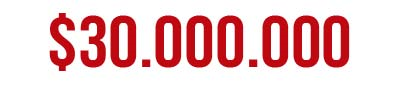
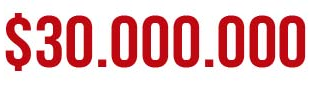
##76098## : Sorteo Extraordinario - Pruebas - Minuta del 16/12

diff --git a/sorteo/escribano/escribano.php b/sorteo/escribano/escribano.php
@@ -31,6 +31,17 @@ $fecha_sorteo = $row_sorteo->FECHA_SORTEO;
     <link href="escribano_estilo.php" rel="stylesheet" type="text/css" />
     <script type="text/javascript" src="../../librerias/jquery/jquery-1.10.1.js"></script>
     <script type="text/javascript" src="../../js/funciones.js?17072017"></script>
+    <style type="text/css">
+        .w3-xlarge{
+            font-size: 47px !important;
+        }
+        .w3-modal-content {
+            width: 95% !important;
+        }
+        .w3-large{
+            font-size: 35px !important;
+        }
+    </style>
 </head>
 
 <body>
@@ -43,7 +54,7 @@ $fecha_sorteo = $row_sorteo->FECHA_SORTEO;
         </div>
 
 
-      <!--  <div id="primer_premio" style="background-image:url('escribano_img/primer_premio_4960.png');"></div> -->
+        <div id="primer_premio" style="background-image:url('escribano_img/primer_premio_5011.png');"></div>
 
 
         <div id="resultado_primer_premio" ></div>
@@ -601,12 +612,16 @@ $fecha_sorteo = $row_sorteo->FECHA_SORTEO;
                                         function() {
                                             //CODIGO PARA MOSTRAR GANADORES EN EL SORTEOS SALE O SALE
                                              $('#primer_premio').fadeOut();
-                                            $('#resultado_primer_premio').css('background-size', '248px 63px');
-                                            $('#resultado_primer_premio').css('top', '133px');
-                                            $('#resultado_primer_premio').css('height', '62px');
-                                            $('#resultado_primer_premio').css('left', '178px');
+                                             $('#resultado_primer_premio').css('background-size', '375px 78px');
+                                            $('#resultado_primer_premio').css('top', '126px');
+                                            $('#resultado_primer_premio').css('height', '71px');
+                                            $('#resultado_primer_premio').css('left', '109px');
+                                            $('#resultado_primer_premio').css('width', '326px');
                                             $('#resultado_primer_premio').css('background-image', 'url(escribano_img/no_vendido_<?php echo $_SESSION['sorteo']; ?>.png)');
                                             $('#resultado_primer_premio').fadeIn();
+
+
+
                                         }
                                     );
                                     $( "body").unbind( "keydown" );
@@ -643,6 +658,7 @@ $fecha_sorteo = $row_sorteo->FECHA_SORTEO;
                                                     if(this['localidad'].length<=6){
                                                         $( "#ganadores_primer_premio" ).addClass( "w3-xlarge" );
                                                     }
+
                                                     if(this['localidad'].length>6 && this['localidad'].length<=12){
                                                         $( "#ganadores_primer_premio" ).addClass( "w3-large" );
                                                     }
@@ -956,7 +972,7 @@ $fecha_sorteo = $row_sorteo->FECHA_SORTEO;
 
                 $('#zona3 #localidad').remove();
                 if(sortea_hasta_sale_ganadores[sortea_hasta_sale_resumenContador] != undefined){
-                    var estilo = { top: '500px', left: '940px', width: '230px', height: '220px', 'font-size': '30px', 'text-align': 'left' };
+                    var estilo = { top: '500px', left: '940px', width: '254px', height: '220px', 'font-size': '30px', 'text-align': 'left' };
                     var elemento = $('<span id="localidad" class="billete2">' + sortea_hasta_sale_ganadores[sortea_hasta_sale_resumenContador] + '<br> </span>').css(estilo);
                     $('#zona3').append(elemento);
 
@@ -973,7 +989,7 @@ $fecha_sorteo = $row_sorteo->FECHA_SORTEO;
                         if(sortea_hasta_sale_ganadores.length<=6){
                             $( "#ganadores_primer_premio" ).addClass( "w3-xlarge" );
                         }
-                        if(sortea_hasta_sale_ganadores.length>6 && this['localidad'].length<=12){
+                        if(sortea_hasta_sale_ganadores.length>6 && sortea_hasta_sale_ganadores.length<=12){
                             $( "#ganadores_primer_premio" ).addClass( "w3-large" );
                         }
                         if(sortea_hasta_sale_ganadores.length > 12){
@@ -1198,10 +1214,11 @@ $fecha_sorteo = $row_sorteo->FECHA_SORTEO;
                 intervalPrimeroPremio = setInterval(function(data){
                     if(primer_premio == true){
                         $('#primer_premio').fadeOut();
-                        $('#resultado_primer_premio').css('background-size', '250px 62px');
-                        $('#resultado_primer_premio').css('top', '135px');
-                        $('#resultado_primer_premio').css('height', '62px');
-                        $('#resultado_primer_premio').css('left', '181px');
+                        $('#resultado_primer_premio').css('background-size', '375px 78px');
+                        $('#resultado_primer_premio').css('top', '126px');
+                        $('#resultado_primer_premio').css('height', '71px');
+                        $('#resultado_primer_premio').css('left', '109px');
+                        $('#resultado_primer_premio').css('width', '292px');
                         $('#resultado_primer_premio').css('background-image', 'url(escribano_img/vendido_<?php echo $_SESSION['sorteo']; ?>.png)');
                         $('#resultado_primer_premio').fadeIn();
                         primer_premio = false;

diff --git a/sorteo/acta/loteria_acta_extractos.php b/sorteo/acta/loteria_acta_extractos.php
@@ -210,7 +210,7 @@ $pdf->SetXY(30, 60);
 $pdf->Cell(30, 0, $progresion[1], 0, 0, 'C');
 //cuadroS de numeros
 //1 al quinto premio
-if ($rscomercializado->Rowcount() == 0 && ($_SESSION['juego_tipo'] == 'EXTRAORDINARIA') && $sale_o_sale[1] == 'SI') {
+if ($rscomercializado->Rowcount() == 0 && ($_SESSION['juego_tipo'] == 'EXTRAORDINARIA') && strtoupper($sale_o_sale[1]) == 'SI') {
     $pdf->SetXY(35, 80);
     $pdf->SetFont('Arial', 'BI', 12);
 }
@@ -224,7 +224,7 @@ $pdf->Cell(20, 0, '1er. Premio de', 0, 0, 1);
 $pdf->SetXY(65, 90);
 $pdf->SetFont('Arial', 'b', 13);
 
-if ($rscomercializado->Rowcount() == 0 && ($_SESSION['juego_tipo'] == 'EXTRAORDINARIA') && $sale_o_sale[1] == 'SI') {
+if ($rscomercializado->Rowcount() == 0 && ($_SESSION['juego_tipo'] == 'EXTRAORDINARIA') && strtoupper($sale_o_sale[1]) == 'SI') {
     $pdf->Cell(20, 0, 'No Vendido (*)', 0, 0, 1);
 } else {
     $pdf->Cell(20, 0, '$ ' . number_format($efectivo[1], 0, ',', '.'), 0, 0, 1);
@@ -292,7 +292,7 @@ $pdf->SetFont('Arial', 'B', 13);
 $pdf->SetXY(140, 122);
 $pdf->Cell(20, 0, $quini[5], 0, 1, 1);
 $pdf->SetXY(50, 127);
-if ($_SESSION['juego_tipo'] == 'EXTRAORDINARIA' && $rscomercializado->Rowcount() == 0 && $sale_o_sale[1] == 'SI') {
+if ($_SESSION['juego_tipo'] == 'EXTRAORDINARIA' && $rscomercializado->Rowcount() == 0 && strtoupper($sale_o_sale[1]) == 'SI') {
     $pdf->SetFont('Arial', 'b', 10);
     $pdf->Cell(20, 0, '(*) Premio $' . number_format($efectivo[1], 0, ',', '.') . ' Sujeto a modalidad Sortea Hasta Que Sale', 0, 0, 1);
 }

diff --git a/sorteo/escribano/escribano_estilo.php b/sorteo/escribano/escribano_estilo.php
@@ -125,12 +125,12 @@ body{
 
 
 #primer_premio{
-    background-size: 319px 60px;
-    top: 142px;
-    left: 169px;
+    background-size: 375px 78px;
+    top: 126px;
+    left: 109px;
     position: absolute;
-    width: 319px;
-    height: 60px;
+    width: 379px;
+    height: 71px;
 }
 
 #primer_premio_resumen{
